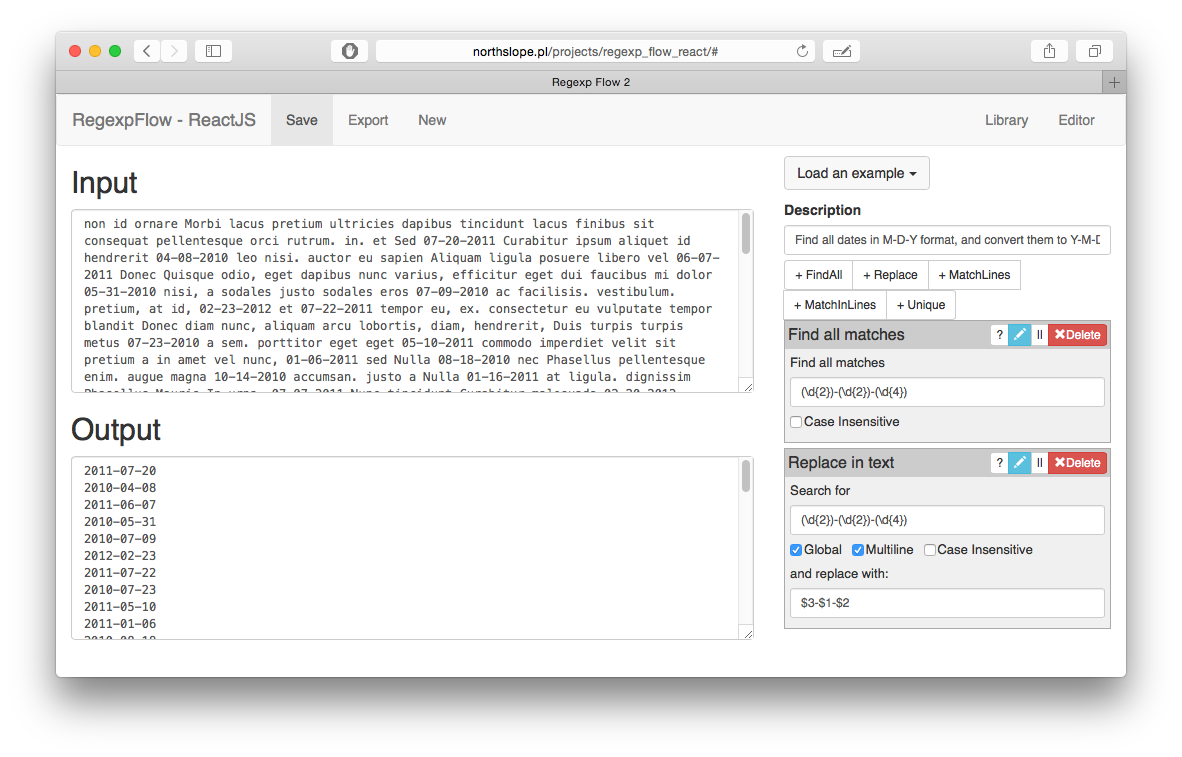
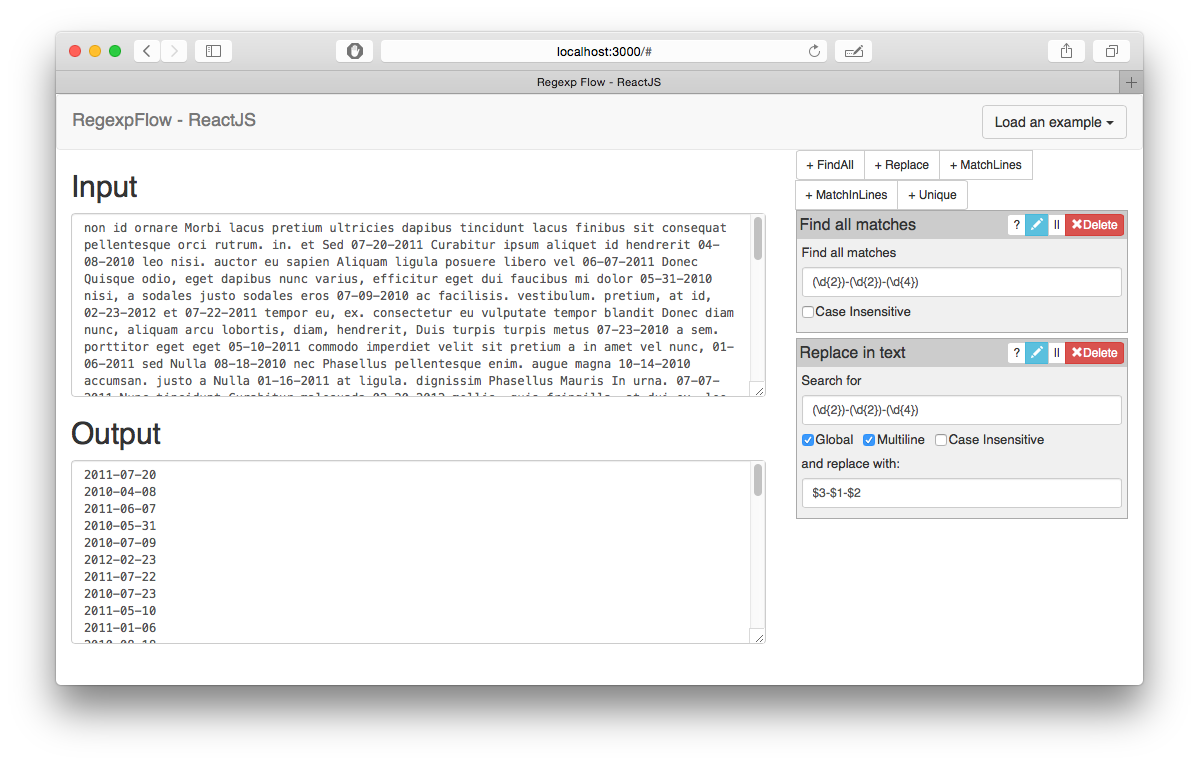
Updated docs

diff --git a/public/index.html b/public/index.html
@@ -14,7 +14,7 @@
       work correctly both with client-side routing and a non-root public URL.
       Learn how to configure a non-root public URL by running `npm run build`.
     -->
-    <title>Regexp Flow 2</title>
+    <title>Regexp Flow - ReactJS</title>
 </head>
 <body>
 <div id="root"></div>
